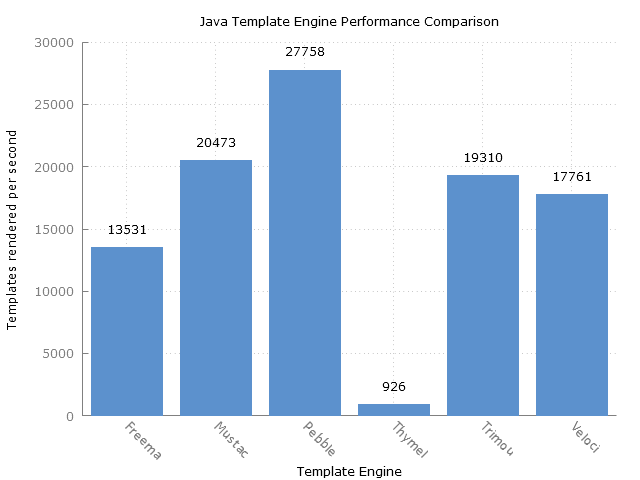
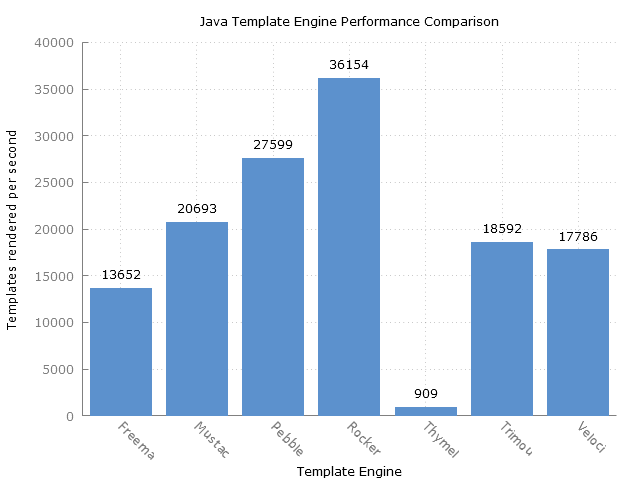
Added rocker

diff --git a/src/main/java/com/mitchellbosecke/benchmark/Rocker.java b/src/main/java/com/mitchellbosecke/benchmark/Rocker.java
@@ -1,0 +1,36 @@
+package com.mitchellbosecke.benchmark;
+
+import com.mitchellbosecke.benchmark.model.Stock;
+import freemarker.template.TemplateException;
+import org.openjdk.jmh.annotations.Benchmark;
+import org.openjdk.jmh.annotations.Setup;
+
+import java.io.IOException;
+import java.util.List;
+
+/**
+ * Benchmark for Rocker template engine by Fizzed.
+ * 
+ * https://github.com/fizzed/rocker
+ * 
+ * @author joelauer
+ */
+public class Rocker extends BaseBenchmark {
+
+    private List<Stock> items;
+
+    @Setup
+    public void setup() throws IOException {
+        // no config needed, replicate stocks from context
+        this.items = Stock.dummyItems();
+    }
+
+    @Benchmark
+    public String benchmark() throws TemplateException, IOException {
+        return templates.stocks
+                .template(this.items)
+                .render()
+                .toString();
+    }
+
+}

diff --git a/src/test/java/com/mitchellbosecke/benchmark/ExpectedOutputTest.java b/src/test/java/com/mitchellbosecke/benchmark/ExpectedOutputTest.java
@@ -31,6 +31,13 @@ public class ExpectedOutputTest {
         freemarker.setup();
         assertOutput(freemarker.benchmark());
     }
+    
+    @Test
+    public void testRockerOutput() throws IOException, TemplateException {
+        Rocker rocker = new Rocker();
+        rocker.setup();
+        assertOutput(rocker.benchmark());
+    }
 
     @Test
     public void testPebbleOutput() throws IOException, PebbleException {

diff --git a/README.md b/README.md
@@ -6,9 +6,10 @@ JMH benchmark for popular Java template engines:
 * [Freemarker](http://freemarker.org/)
 * [Mustache](https://github.com/spullara/mustache.java)
 * [Pebble](http://www.mitchellbosecke.com/pebble)
+* [Rocker](https://github.com/fizzed/rocker)
 * [Thymeleaf](http://www.thymeleaf.org/)
-* [Velocity](http://velocity.apache.org/)
 * [Trimou](http://trimou.org/)
+* [Velocity](http://velocity.apache.org/)
 
 Running the benchmark
 ======================
